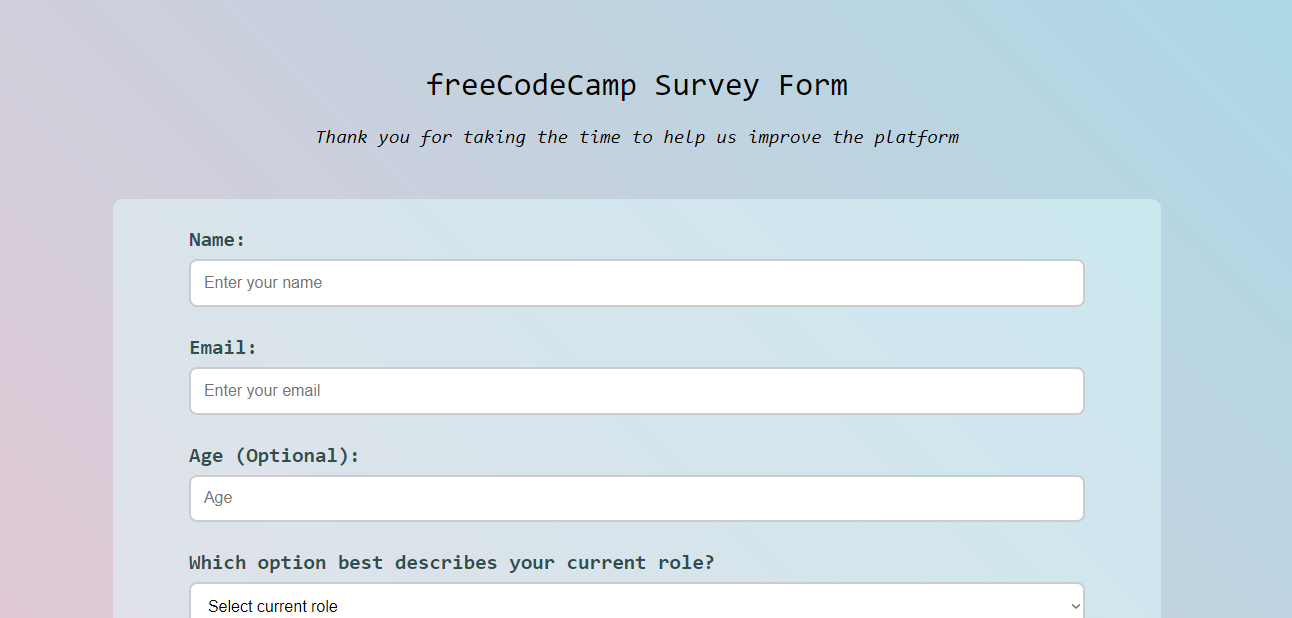
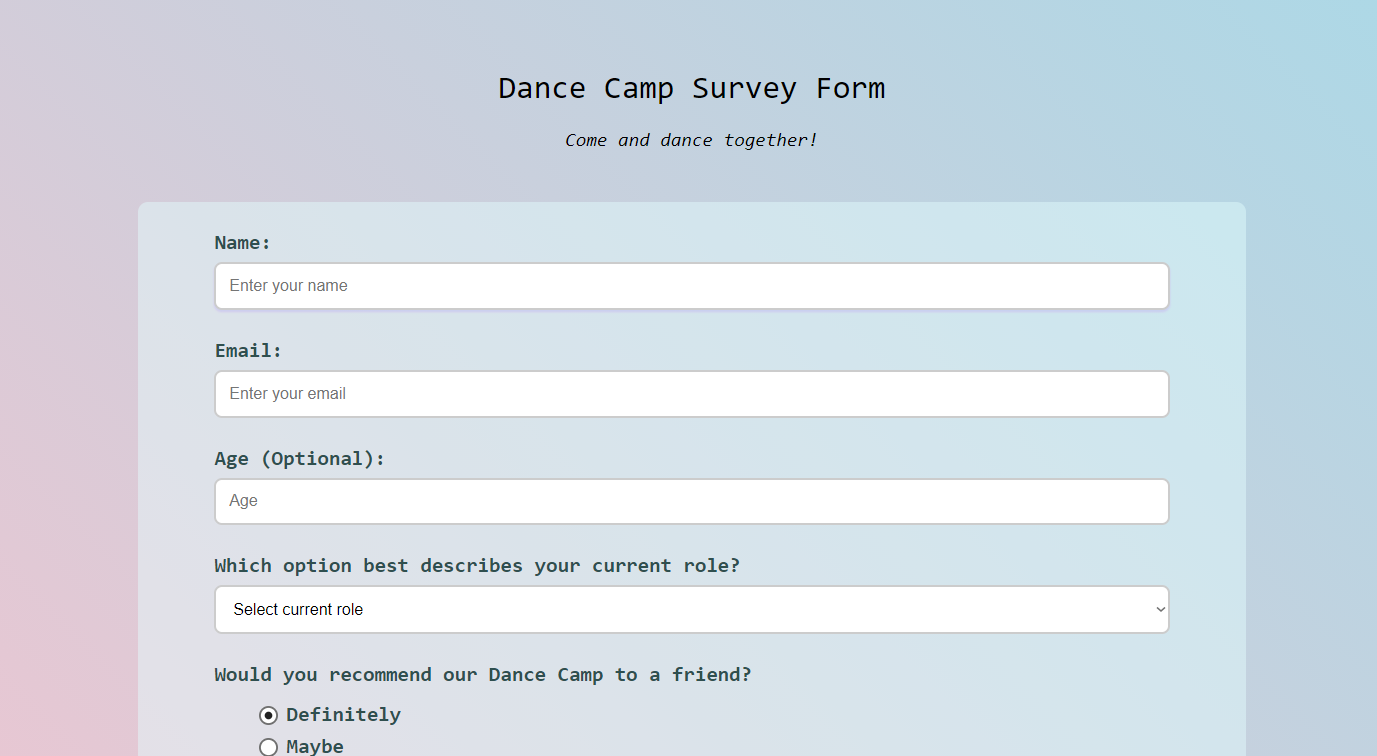
changed content

Changed region(s): [[0.0619, 0.3074, 0.8669, 1.0], [0.2477, 0.0922, 0.743, 0.246]]

diff --git a/index.html b/index.html
@@ -9,8 +9,8 @@
 </head>
 <body class="bg-color" >
    <header class="header">
-     <h1 id="title">freeCodeCamp Survey Form</h1>
-     <p id="description"> Thank you for taking the time to help us improve the platform </p>
+     <h1 id="title">Dance Camp Survey Form</h1>
+     <p id="description"> Come and dance together!</p>
    </header>
   <form id="survey-form" class="survey-bg" action="">
     <div class="form-group">
@@ -30,14 +30,14 @@
       <select name="role" id="dropdown" class="form-control" required>
         <option disabled selected value>Select current role</option>
         <option value="student">Student</option>
-        <option value="job">Full Time Job</option>
-        <option value="learner">Full Time Learner</option>
+        <option value="job">Choreographer</option>
+        <option value="learner">Professional Dancer</option>
         <option value="prefernottosay">Prefer Not To Say</option>
         <option value="other">Other</option>
       </select>
     </div>
     <div class="form-group">
-      <label>Would you recommend freeCodeCamp to a friend?</label>
+      <label>Would you recommend our Dance Camp to a friend?</label>
       <ul>
         <li><input name="userrecommend" value="definitely" type="radio" checked>Definitely</li>
         <li><input name="userrecommend" value="maybe" type="radio">Maybe</li>
@@ -45,29 +45,26 @@
       </ul>
     </div>
     <div class="form-group">
-      <label>What is your favorite feature of freeCodeCamp?</label>
+      <label>What is your favorite genre?</label>
       <select name="role" id="dropdown" class="form-control" required>
         <option disabled selected value>Select an option</option>
-        <option value="challenges">Challenges</option>
-        <option value="projects">Projects</option>
-        <option value="community">Community</option>
-        <option value="opensource">Open Source</option>
+        <option value="challenges">Hip-Hop</option>
+        <option value="projects">Urban</option>
+        <option value="community">Break dance</option>
+        <option value="opensource">Popping</option>
       </select>
     </div>
      <div class="form-group">
-      <label>Would you recommend freeCodeCamp to a friend?</label>
+      <label>Which genre do you wanna dance in camp?</label>
       <ul>
-        <li><input value="frontend" type="checkbox">Front-end Projects</li>
-        <li><input value="beckend" type="checkbox">Back-end Projects</li>
-        <li><input value="datavisual" type="checkbox">Data Visualization</li>
-        <li><input value="challenges" type="checkbox">Challenges</li>
-        <li><input value="opensource" type="checkbox">Open Source Community</li>
-        <li><input value="gitter" type="checkbox">Gitter help rooms</li>
-        <li><input value="videos" type="checkbox">Videos</li>
-        <li><input value="meetup" type="checkbox">City Meetups</li>
-        <li><input value="wiki" type="checkbox">Wiki</li>
-        <li><input value="forum" type="checkbox">Forum</li>
-        <li><input value="addcourses" type="checkbox">Additional Courses</li>
+        <li><input value="frontend" type="checkbox">Hip-Hop</li>
+        <li><input value="beckend" type="checkbox">Urban</li>
+        <li><input value="datavisual" type="checkbox">Breaking</li>
+        <li><input value="challenges" type="checkbox">Popping</li>
+        <li><input value="opensource" type="checkbox">Ladies</li>
+        <li><input value="gitter" type="checkbox">Locking</li>
+        <li><input value="videos" type="checkbox">Modern</li>
+        <li><input value="meetup" type="checkbox">Wacking</li>
       </ul>
     </div>
     <div class="form-group"> 
